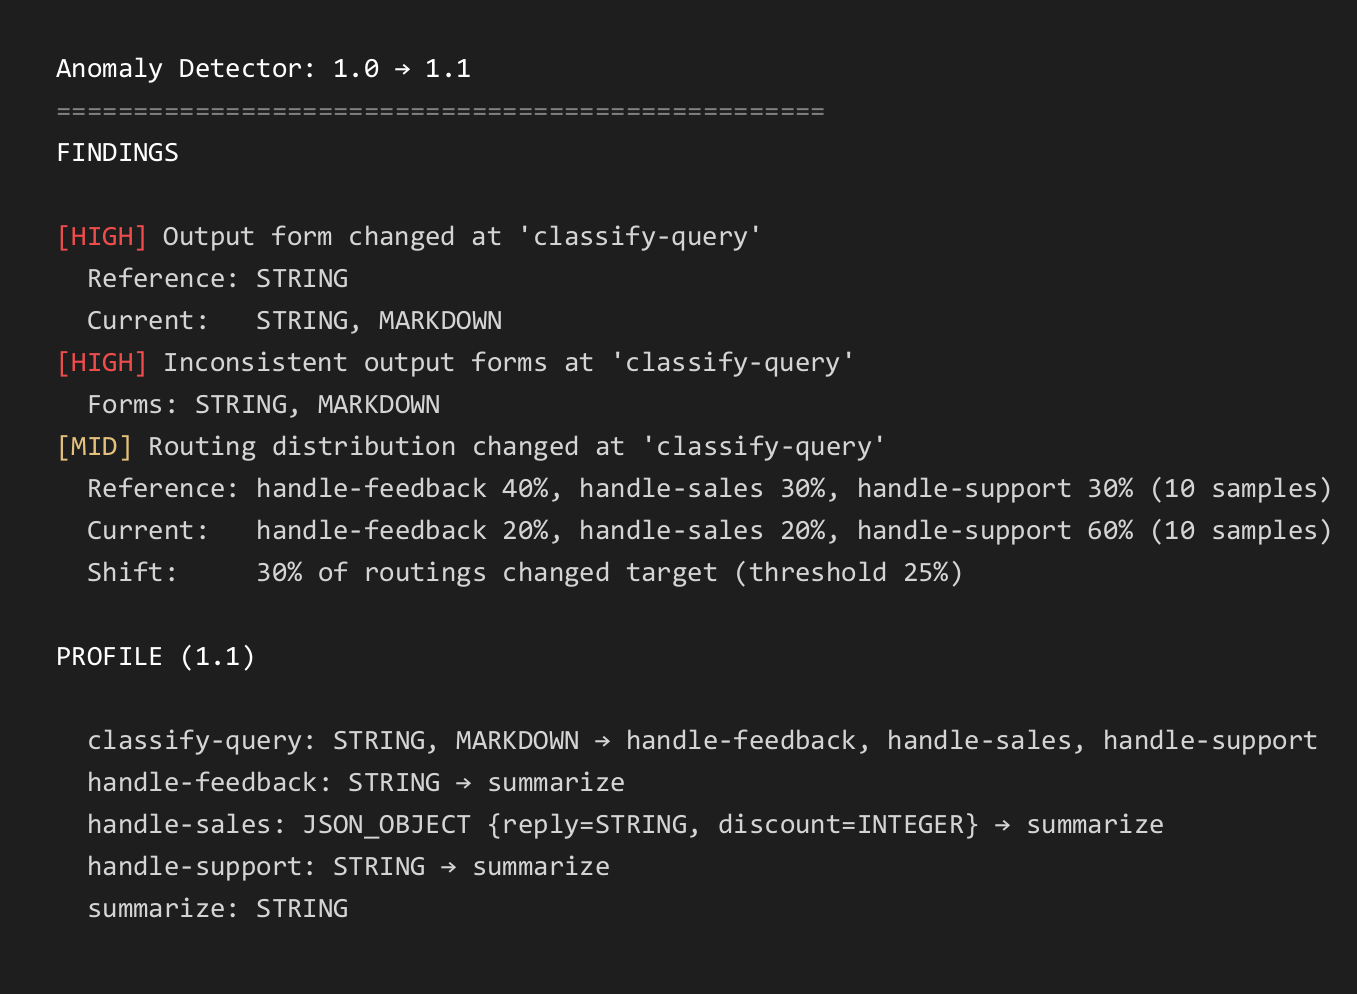
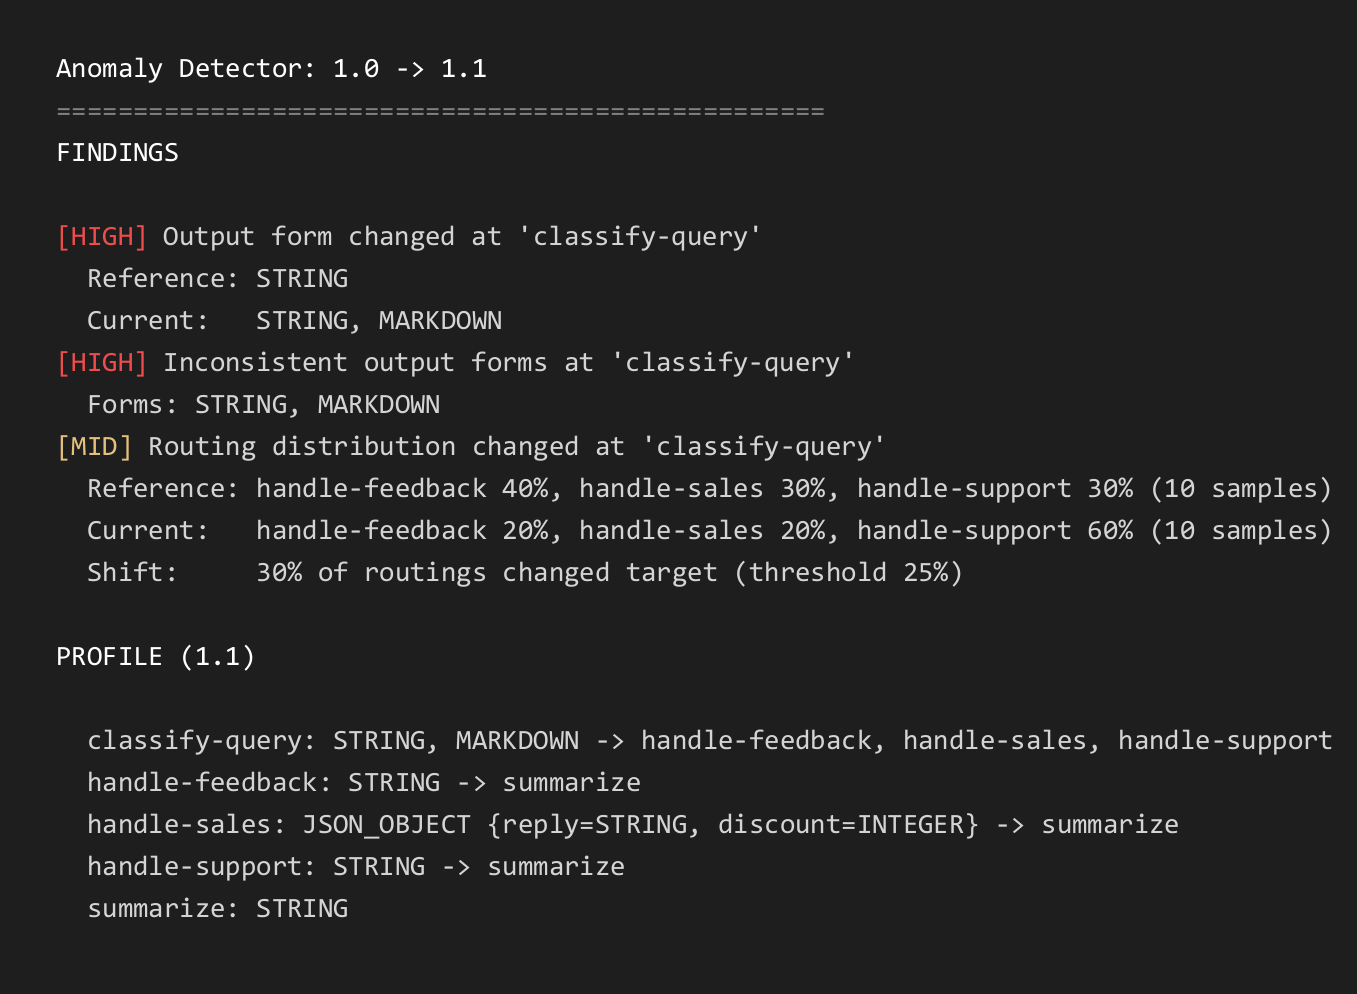
Plain ASCII report output
The arrow and em dash garbled on Windows consoles that are not in UTF-8
mode, because Gradle re-encodes the forked JVM's output with the console
code page. The report now uses "->" and plain punctuation; a demo test
asserts the output stays ASCII. Screenshots regenerated.

diff --git a/src/main/kotlin/com/minogin/anomaly/internal/printer/Printer.kt b/src/main/kotlin/com/minogin/anomaly/internal/printer/Printer.kt
@@ -23,7 +23,7 @@ internal class Printer {
         }
 
     fun printReport(report: Report) {
-        println("Anomaly Detector: ${report.referenceVersion} → ${report.currentVersion}")
+        println("Anomaly Detector: ${report.referenceVersion} -> ${report.currentVersion}")
         println("=".repeat(50))
         if (report.findings.isEmpty()) {
             println("No findings.")
@@ -79,7 +79,7 @@ internal class Printer {
         profile.steps.sortedBy { it.name }.forEach { step ->
             val forms = profile.stepOutputForms[step]?.joinToString { formatForm(it) } ?: "-"
             val transitions = profile.stepTransitions[step]?.map { it.name }?.sorted()?.joinToString()
-            val transitionStr = if (transitions != null) " → $transitions" else ""
+            val transitionStr = if (transitions != null) " -> $transitions" else ""
             println("  ${step.name}: $forms$transitionStr")
         }
     }
@@ -100,7 +100,7 @@ internal class Printer {
             if (schemaDiff.removed.isNotEmpty())
                 println("  Removed:   ${schemaDiff.removed.entries.joinToString { (path, schema) -> "$path: ${schema.format()}" }}")
             if (schemaDiff.changed.isNotEmpty())
-                println("  Changed:   ${schemaDiff.changed.entries.joinToString { (path, change) -> "$path: ${change.first.format()} → ${change.second.format()}" }}")
+                println("  Changed:   ${schemaDiff.changed.entries.joinToString { (path, change) -> "$path: ${change.first.format()} -> ${change.second.format()}" }}")
         }
     }
 

diff --git a/src/test/kotlin/com/minogin/anomaly/internal/printer/PrinterTest.kt b/src/test/kotlin/com/minogin/anomaly/internal/printer/PrinterTest.kt
@@ -31,7 +31,7 @@ class PrinterTest {
         val out = capture { Printer().printReport(report()) }
         assertEquals(
             """
-            Anomaly Detector: 1.0 → 1.1
+            Anomaly Detector: 1.0 -> 1.1
             ==================================================
             No findings.
 
@@ -91,7 +91,7 @@ class PrinterTest {
               Current:   JSON_OBJECT {reply=STRING, offer={discount=INTEGER}, valid=STRING}
               Added:     offer: {discount=INTEGER}
               Removed:   discount: INTEGER
-              Changed:   valid: BOOLEAN → STRING
+              Changed:   valid: BOOLEAN -> STRING
             """.trimIndent()
         )
     }
@@ -179,7 +179,7 @@ class PrinterTest {
             """
             PROFILE (1.1)
 
-              classify-query: STRING → handle-feedback, handle-sales, handle-support
+              classify-query: STRING -> handle-feedback, handle-sales, handle-support
               summarize: STRING
 
             """.trimIndent(),

diff --git a/demo/src/test/kotlin/com/minogin/anomaly/demo/ScreenshotTest.kt b/demo/src/test/kotlin/com/minogin/anomaly/demo/ScreenshotTest.kt
@@ -11,8 +11,8 @@ class ScreenshotTest {
     fun `renders text to a dark png sized to the content`(@TempDir dir: Path) {
         val short = dir.resolve("short.png")
         val long = dir.resolve("long.png")
-        Screenshot.render("Anomaly Detector: 1.0 → 1.1\n[HIGH] one line", short)
-        Screenshot.render("Anomaly Detector: 1.0 → 1.1\n[HIGH] one line\n[MID] a much longer second line of text\n\nPROFILE", long)
+        Screenshot.render("Anomaly Detector: 1.0 -> 1.1\n[HIGH] one line", short)
+        Screenshot.render("Anomaly Detector: 1.0 -> 1.1\n[HIGH] one line\n[MID] a much longer second line of text\n\nPROFILE", long)
 
         val shortImage = ImageIO.read(short.toFile())
         val longImage = ImageIO.read(long.toFile())

diff --git a/demo/src/test/kotlin/com/minogin/anomaly/demo/DemoTest.kt b/demo/src/test/kotlin/com/minogin/anomaly/demo/DemoTest.kt
@@ -108,5 +108,8 @@ class DemoTest {
         assertFalse(out.contains(dir.toString()), "report leaks the data directory")
         assertFalse(out.contains(System.getProperty("user.name")), "report leaks the user name")
         assertFalse(Regex("""\d{4}-\d{2}-\d{2}""").containsMatchIn(out), "report contains a date")
+        // Windows consoles that are not in UTF-8 mode garble anything outside ASCII, so the report must stay plain.
+        val nonAscii = out.filter { it.code > 127 }.toSet()
+        assertTrue(nonAscii.isEmpty(), "report contains non-ASCII characters: $nonAscii")
     }
 }

diff --git a/src/main/kotlin/com/minogin/anomaly/internal/store/Store.kt b/src/main/kotlin/com/minogin/anomaly/internal/store/Store.kt
@@ -28,7 +28,7 @@ internal class Store(
         val path = samplesPath(version)
 
         if (!Files.exists(path)) {
-            throw IllegalStateException("No data for version '$version' — run the app with currentVersion=\"$version\" first")
+            throw IllegalStateException("No data for version '$version', run the app with currentVersion=\"$version\" first")
         }
 
         return Files.readAllLines(path)
